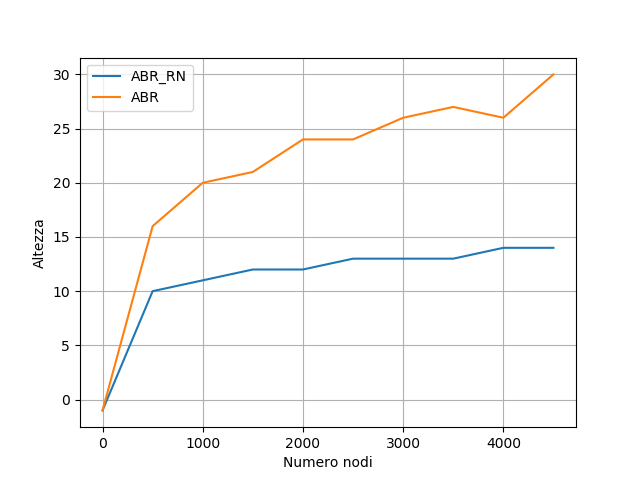
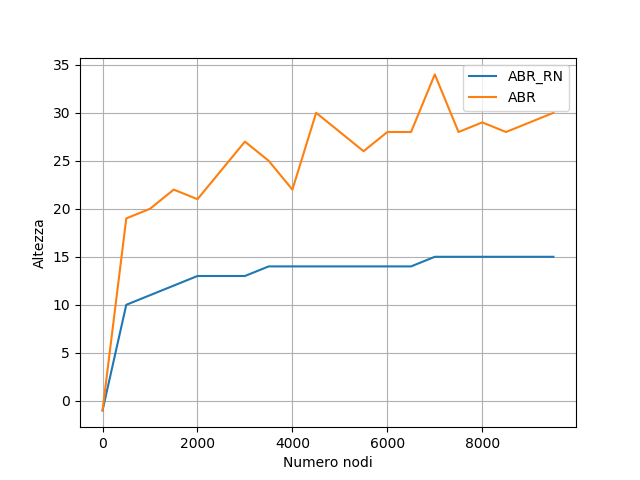
Aggiustato algoritmo di ricerca e concluso gli esperimenti sugli alberi.

diff --git a/Main.py b/Main.py
@@ -3,13 +3,14 @@ import ABR_RN as abrRN
 import RandomArray as ra
 import matplotlib.pyplot as plt
 import time
-import numpy as np
+import random
 import sys
+from timeit import default_timer as timer
 
 sys.setrecursionlimit(1000000)
 
 print("Inserimento")
-tempoTotale = time.time()
+tempoTotale = timer()
 ABRtime = []
 ABRWorst = []
 ABR_RNtime = []
@@ -24,32 +25,34 @@ heightABRWorst = []
 heightABR_RN = []
 numberOfNodes = []
 
-numOfTests = 5000#10000
+timeToSearchABR = []
+timeToSearchABR_RN = []
+numOfTests = 10000
 for j in range(0, numOfTests, 50):
-    print("Parliamo di ", j, "/", numOfTests, "%", j * 100 / numOfTests)  # , end=' e ci mette ')
+    print("Parliamo di ", j, "/", numOfTests, " elementi, ovvero ", j * 100 / numOfTests, "%")
 
     Tabr = abr.ABR()  # Albero br
     Tabrw = abr.ABR()
     Tabr_RN = abrRN.ABR_RN()  # Albero RN
     arrayOfNode = ra.randomArray(j)
 
-    startTime = time.time()
+    startTime = timer()
     for i in range(0, j):
         Tabr.insert(arrayOfNode[i])
-    tempTimeAbr.append((time.time() - startTime))
+    tempTimeAbr.append((timer() - startTime))
 
     badArrayOfNode = []
     for i in range(0, j):
         badArrayOfNode.append(i + 1)
-    startTime = time.time()
+    startTime = timer()
     for i in range(0, j):
         Tabrw.insert(badArrayOfNode[i])
-    tempTimeAbrWorst.append(time.time() - startTime)
+    tempTimeAbrWorst.append(timer() - startTime)
 
-    startTime = time.time()
+    startTime = timer()
     for i in range(0, j):
         Tabr_RN.insert(arrayOfNode[i])
-    tempTimeabr_RN.append(time.time() - startTime)
+    tempTimeabr_RN.append(timer() - startTime)
 
     count += 1
     if count % 10 == 0 or j == numOfTests or j == 0:
@@ -70,7 +73,16 @@ for j in range(0, numOfTests, 50):
         numberOfNodes.append(j)
         heightABR.append(Tabr.heightRecursive(Tabr.root))
         heightABR_RN.append(Tabr_RN.heightRecursive(Tabr_RN.root))
-        print("Temp variables refreshed")
+
+        keyToSearch = random.randint(0, j*2)
+        startTime = timer()
+        Tabr.searchI(keyToSearch)
+        timeToSearchABR.append(timer() - startTime)
+        startTime = timer()
+        Tabr_RN.searchI(keyToSearch)
+        timeToSearchABR_RN.append(timer() - startTime)
+        print("##########Temp variables refreshed & co.##########")
+
 print(100, "%!!!!!!!")
 
 
@@ -107,6 +119,18 @@ plt.ylabel('Altezza')
 plt.grid()
 plt.draw()
 plt.savefig('Altezza Alberi', dpi=100)
+plt.show()
+
+
+# Ricerca
+plt.plot(numberOfNodes, timeToSearchABR_RN, label="ABR_RN")
+plt.plot(numberOfNodes, timeToSearchABR, label="ABR")
+plt.legend()
+plt.xlabel('Numero nodi')
+plt.ylabel('Tempo di ricerca')
+plt.grid()
+plt.draw()
+plt.savefig('Tempo di ricerca Alberi', dpi=100)
 plt.show()
 
 print("Ci abbiamo impiegato ", time.time() - tempoTotale)

diff --git a/ABR.py b/ABR.py
@@ -26,21 +26,16 @@ class ABR:
         z.left = self.NIL
         z.right = self.NIL
 
-    def searchR(self, key, x):  # O(h)
-        if x is None or key == x.key:
-            return x
-        if key < x.key:
-            return self.searchR(key, x.left)
-        else:
-            return self.searchR(key, x.right)
-
-    def searchI(self, key, x):  # O(h) (più veloce del ricorsivo)
-        while x is not None and key != x.key:
+    def searchI(self, key):  # O(h)
+        x = self.root
+        while x != self.NIL and key != x.key:
             if key < x.key:
                 x = x.left
             else:
                 x = x.right
-        return x
+        if x == self.NIL:
+            return False
+        return True
 
     def inorder_tree_walk(self, x):  # O(n)
         if x is not None:
@@ -104,10 +99,11 @@ class Node:
         self.left = None
         self.right = None
 
+
 if __name__ == "__main__":
     T = ABR()
     # collectionOfNode = ra.randomArray(100)
     for i in range(0, 10):
         #print("nodo", i)
         T.insert(i + 1)
-    print(T.heightRecursive(T.root))
+    print(T.searchI(8))

diff --git a/ABR_RN.py b/ABR_RN.py
@@ -61,21 +61,16 @@ class ABR_RN:
                     self.leftRotate(z.p.p)
         self.root.color = 0  # Black
 
-    def searchR(self, key, x):  # O(lg n)
-        if x is None or key == x.key:
-            return x
-        if key < x.key:
-            return self.searchR(key, x.left)
-        else:
-            return self.searchR(key, x.right)
-
-    def searchI(self, key, x):  # O(lg n)
-        while x is not None and key != x.key:
+    def searchI(self, key):  # O(lg n)
+        x = self.root
+        while x != self.NIL and key != x.key:
             if key < x.key:
                 x = x.left
             else:
                 x = x.right
-        return x
+        if x == self.NIL:
+            return False
+        return True
 
     def inorder_tree_walk(self, x):  # O(n)
         if x != self.NIL:

diff --git a/RandomArray.py b/RandomArray.py
@@ -4,6 +4,6 @@ import random
 def randomArray(size):
     a = []
     for i in range(0, size):
-        a.append(i+1)
+        a.append(i)
     random.shuffle(a)
     return a
